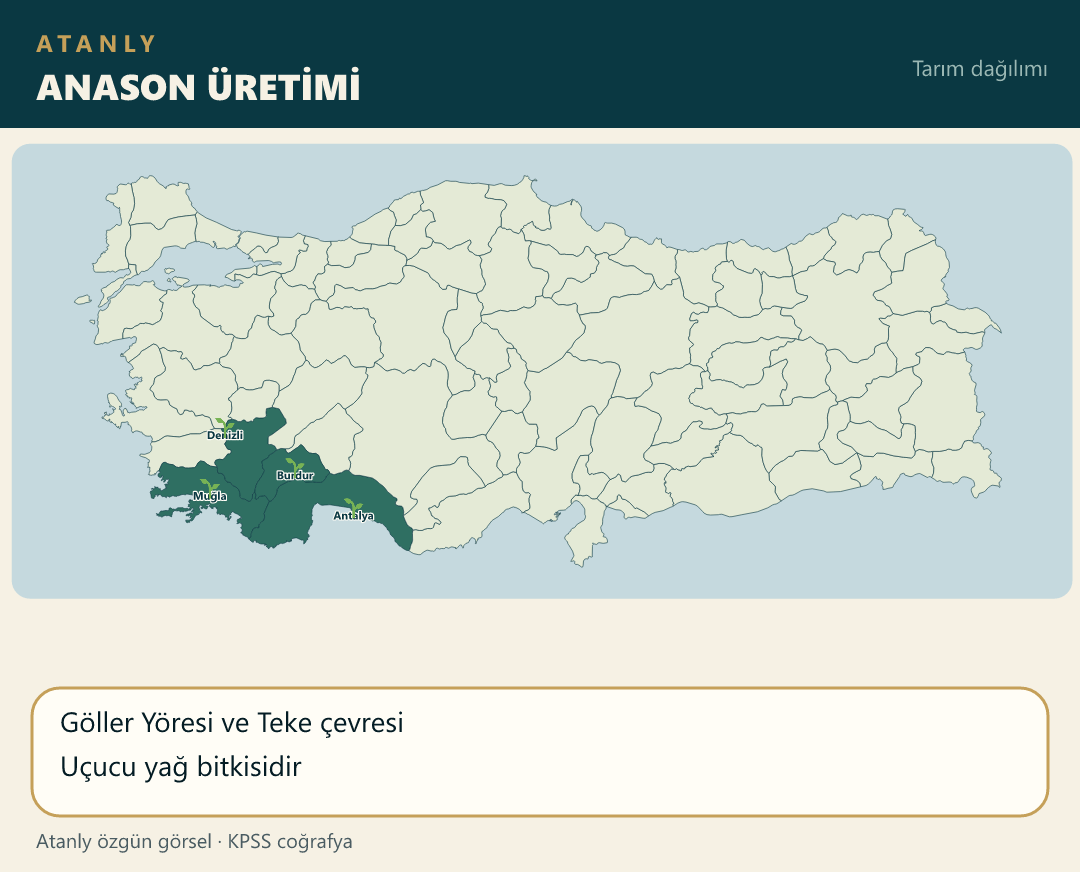
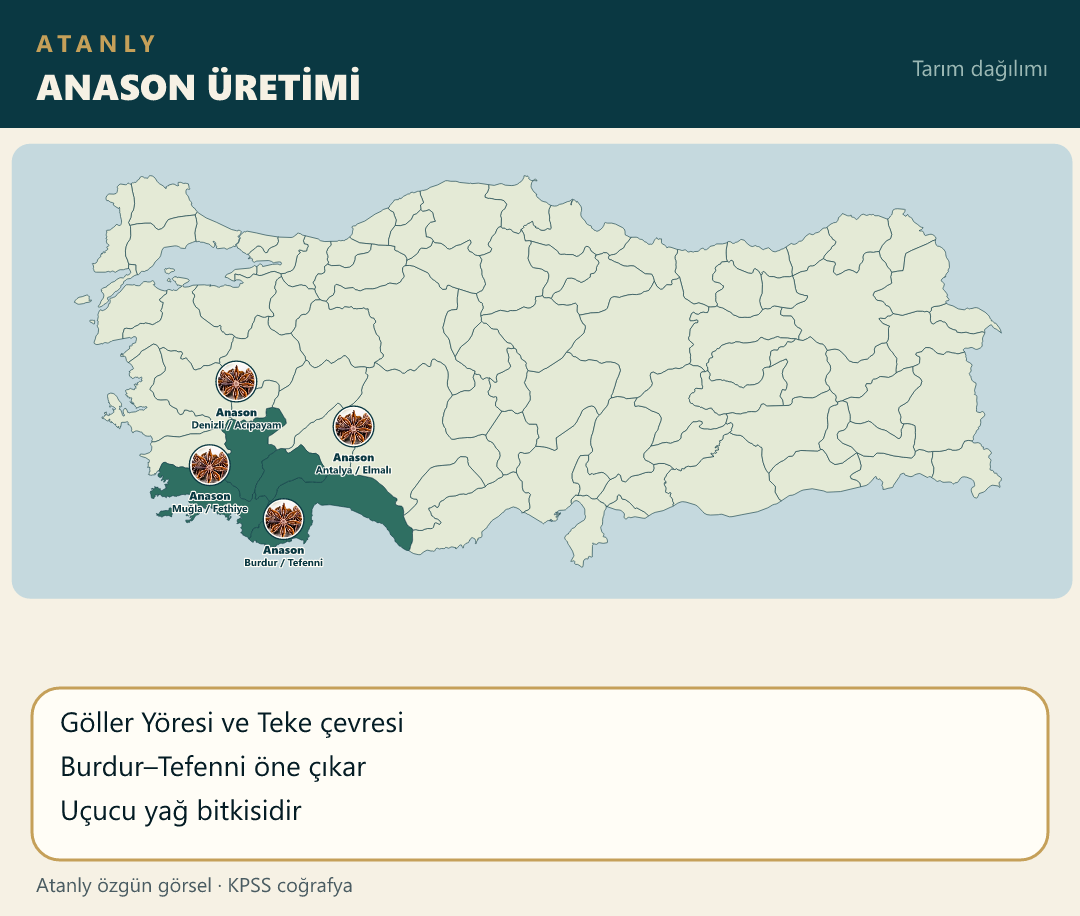
Place the anason photo on Burdur Tefenni and nearby districts.

diff --git a/scripts/build-atanly-maps.js b/scripts/build-atanly-maps.js
@@ -222,12 +222,25 @@ function textW(p, fs) {
     return Math.max(22, max * fs * 0.82);
 }
 
-function onMapText(x, y, text, fs) {
+function onMapText(x, y, text, fs, p) {
     fs = fs || 11;
-    var ln = wrapOnMap(text, 16)[0];
-    var common = 'x="' + Number(x).toFixed(1) + '" y="' + Number(y).toFixed(1) + '" text-anchor="middle" font-family="Segoe UI, Calibri, sans-serif" font-size="' + fs + '" font-weight="700"';
-    return '<text ' + common + ' fill="#FFFDF6" stroke="#FFFDF6" stroke-width="2.2" stroke-linejoin="round">' + esc(ln) + "</text>" +
-        '<text ' + common + ' fill="' + C.navy + '">' + esc(ln) + "</text>";
+    var lines;
+    if (p && p.urun) {
+        lines = [p.urun];
+        if (p.il && p.ilce) lines.push(p.il + " / " + p.ilce);
+        else if (p.il) lines.push(p.il);
+    } else {
+        lines = [wrapOnMap(text, 16)[0]];
+    }
+    var startY = y;
+    return lines.map(function (ln, i) {
+        var size = i === 0 && p && p.urun ? fs : Math.max(8, fs - 1);
+        var ty = startY + i * (size + 2);
+        var wt = i === 0 ? "800" : "700";
+        var common = 'x="' + Number(x).toFixed(1) + '" y="' + Number(ty).toFixed(1) + '" text-anchor="middle" font-family="Segoe UI, Calibri, sans-serif" font-size="' + size + '" font-weight="' + wt + '"';
+        return '<text ' + common + ' fill="#FFFDF6" stroke="#FFFDF6" stroke-width="2.2" stroke-linejoin="round">' + esc(ln) + "</text>" +
+            '<text ' + common + ' fill="' + C.navy + '">' + esc(ln) + "</text>";
+    }).join("");
 }
 
 function nudgeLabels(pts, fs) {
@@ -239,7 +252,7 @@ function nudgeLabels(pts, fs) {
                 var dx = pts[j].x - pts[i].x;
                 var dy = pts[j].y - pts[i].y;
                 var gapX = (textW(pts[i], fs) + textW(pts[j], fs)) / 2 + 10;
-                var gapY = fs * 2.4 + 12;
+                var gapY = (pts[i].urun || pts[j].urun) ? fs * 4.6 + 28 : fs * 2.4 + 12;
                 var ox = gapX - Math.abs(dx);
                 var oy = gapY - Math.abs(dy);
                 if (ox > 0 && oy > 0) {
@@ -265,7 +278,7 @@ function nudgeLabels(pts, fs) {
 function labelsOnMap(pts, fs) {
     fs = fs || labelFs(pts.length);
     nudgeLabels(pts, fs);
-    return pts.map(function (p) { return onMapText(p.x, p.y, p.text, fs); }).join("");
+    return pts.map(function (p) { return onMapText(p.x, p.y, p.text, fs, p); }).join("");
 }
 
 function spreadSameCell(pts) {
@@ -292,7 +305,7 @@ function topicIcon(file) {
     var T = {
         gul: "rose", elma: "apple", bugday: "wheat", pamuk: "cotton", zeytin: "olive",
         uzum: "grapes", misir: "corn", patates: "potato", arpa: "wheat", sekerpancar: "beet",
-        hashas: "poppy", incir: "fig", kayisi: "apricot", muz: "banana", anason: "seed",
+        hashas: "poppy", incir: "fig", kayisi: "apricot", muz: "banana", anason: "anason",
         aspir: "flower", susam: "seed", tutun: "leaf", yerfistik: "peanut", antepfistik: "pistachio",
         kirmizimercimek: "lentil", turunc: "citrus", kanola: "canola", pirinc: "rice",
         aycicek: "sunflower", findik: "hazelnut", cay: "tea", kenevir: "hemp",
@@ -320,26 +333,50 @@ function iconDataUri(name) {
     return uri;
 }
 
-function iconsOnMap(pts, iconName, fs) {
+function iconsOnMap(pts, iconName) {
     var href = iconDataUri(iconName);
     if (!href || !pts.length) return "";
-    var size = iconPx(pts.length);
-    return pts.map(function (p) {
-        var x = (p.x - size / 2).toFixed(1);
-        var y = (p.y - size - 1).toFixed(1);
-        return '<image href="' + href + '" x="' + x + '" y="' + y + '" width="' + size + '" height="' + size + '" preserveAspectRatio="xMidYMid meet"/>';
+    var photo = pts.some(function (p) { return p.urun; });
+    if (!photo) {
+        var size0 = iconPx(pts.length);
+        return pts.map(function (p) {
+            var x = (p.x - size0 / 2).toFixed(1);
+            var y = (p.y - size0 - 1).toFixed(1);
+            return '<image href="' + href + '" x="' + x + '" y="' + y + '" width="' + size0 + '" height="' + size0 + '" preserveAspectRatio="xMidYMid meet"/>';
+        }).join("");
+    }
+    var size = pts.length > 6 ? 28 : 36;
+    return pts.map(function (p, i) {
+        var cid = "ic" + i + Math.round(p.x) + Math.round(p.y);
+        var r = size / 2;
+        var cx = p.x;
+        var cy = p.y - r - 16;
+        return '<defs><clipPath id="' + cid + '"><circle cx="' + cx.toFixed(1) + '" cy="' + cy.toFixed(1) + '" r="' + r + '"/></clipPath></defs>' +
+            '<circle cx="' + cx.toFixed(1) + '" cy="' + cy.toFixed(1) + '" r="' + (r + 2).toFixed(1) + '" fill="#FFFDF6" stroke="' + C.navy + '" stroke-width="1.3"/>' +
+            '<image href="' + href + '" x="' + (cx - r).toFixed(1) + '" y="' + (cy - r).toFixed(1) + '" width="' + size + '" height="' + size + '" clip-path="url(#' + cid + ')" preserveAspectRatio="xMidYMid slice"/>';
     }).join("");
 }
 
 function cropMap(provs, opts) {
     var pts = [];
-    (opts.iller || []).forEach(function (name, i) {
-        var fp = findProv(provs, name);
+    var rows = opts.noktalar || (opts.iller || []).map(function (name, i) {
+        return { il: name, ilce: (opts.ilceler && opts.ilceler[i]) || "", yazi: opts.yazilar && opts.yazilar[i] };
+    });
+    var hi = [];
+    rows.forEach(function (row) {
+        var fp = findProv(provs, row.il);
         if (!fp) {
-            console.warn("il yok:", name);
+            console.warn("il yok:", row.il);
             return;
         }
-        pts.push({ x: fp.cx, y: fp.cy, ox: fp.cx, oy: fp.cy, text: (opts.yazilar && opts.yazilar[i]) || name });
+        hi.push(row.il);
+        pts.push({
+            x: fp.cx, y: fp.cy, ox: fp.cx, oy: fp.cy,
+            text: row.yazi || row.il,
+            urun: opts.urun || "",
+            il: row.il,
+            ilce: row.ilce || ""
+        });
     });
     spreadSameCell(pts);
     var factsY = 78 + MAP_BLOCK_H + 16;
@@ -347,7 +384,7 @@ function cropMap(provs, opts) {
     var H = factsY + facts.h + 28;
     var labels = labelsOnMap(pts);
     var overlay = iconsOnMap(pts, topicIcon(opts.file));
-    var body = mapBlock(provs, landPaths(provs, opts.iller, C.landHi) + labels + overlay) + facts.svg;
+    var body = mapBlock(provs, landPaths(provs, hi, C.landHi) + labels + overlay) + facts.svg;
     return frame(H, opts.title, opts.kicker || "Tarım dağılımı", body);
 }
 
@@ -374,7 +411,14 @@ function main() {
         { file: "incir.png", title: "İNCİR ÜRETİMİ", iller: ["Aydın", "İzmir", "Muğla", "Bursa", "Gaziantep"], facts: ["Aydın birinci sıradadır", "Ege’nin kurutmalık inciri meşhurdur"] },
         { file: "kayısı.png", title: "KAYISI ÜRETİMİ", iller: ["Malatya", "Elazığ", "Kahramanmaraş", "Iğdır"], facts: ["Malatya dünya ölçeğinde öne çıkar", "Kurutmalık kayısı ihracatı önemlidir"] },
         { file: "muz.png", title: "MUZ ÜRETİMİ", iller: ["Mersin", "Antalya", "Hatay"], facts: ["Don olayının az olduğu kıyı kuşağı", "Anamur–Alanya çevresi yoğundur"] },
-        { file: "anason.png", title: "ANASON ÜRETİMİ", iller: ["Burdur", "Denizli", "Antalya", "Muğla"], facts: ["Göller Yöresi ve Teke çevresi", "Uçucu yağ bitkisidir"] },
+        { file: "anason.png", title: "ANASON ÜRETİMİ", urun: "Anason",
+            noktalar: [
+                { il: "Burdur", ilce: "Tefenni" },
+                { il: "Denizli", ilce: "Acıpayam" },
+                { il: "Antalya", ilce: "Elmalı" },
+                { il: "Muğla", ilce: "Fethiye" }
+            ],
+            facts: ["Göller Yöresi ve Teke çevresi", "Burdur–Tefenni öne çıkar", "Uçucu yağ bitkisidir"] },
         { file: "aspir.png", title: "ASPİR ÜRETİMİ", iller: ["Eskişehir", "Konya", "Ankara", "Aksaray"], facts: ["Kuraklığa dayanıklı yağ bitkisi", "İç Anadolu’da ekimi artmaktadır"] },
         { file: "susam.png", title: "SUSAM ÜRETİMİ", iller: ["Antalya", "Muğla", "Manisa", "Adana"], facts: ["Sıcak iklim ister", "Akdeniz ve Ege kıyılarında yetişir"] },
         { file: "tütün.png", title: "TÜTÜN ÜRETİMİ", iller: ["Manisa", "Denizli", "Samsun", "Adıyaman", "Bitlis", "Muş"], facts: ["Ege ve Karadeniz’de klasik üretim alanları", "Doğu Anadolu’da da ekilir"] },

diff --git a/notlar/cografya-19-not.js b/notlar/cografya-19-not.js
@@ -2,7 +2,7 @@
 (function () {
     function harita(src, alt) {
         return '<div class="mt-4 overflow-hidden rounded-xl border border-blue-200 dark:border-blue-700/50 bg-white dark:bg-slate-800 p-2">' +
-            '<img src="./src/img/' + src + '?v=9" alt="' + alt + ' Haritası" class="w-full h-auto rounded-lg object-contain" loading="lazy">' +
+            '<img src="./src/img/' + src + '?v=10" alt="' + alt + ' Haritası" class="w-full h-auto rounded-lg object-contain" loading="lazy">' +
             "</div>";
     }
 

diff --git a/index.html b/index.html
@@ -117,7 +117,7 @@
     <script src="notlar/cografya-16-not.js?v=3"></script>
     <script src="notlar/cografya-17-not.js?v=3"></script>
     <script src="notlar/cografya-18-not.js?v=9"></script>
-    <script src="notlar/cografya-19-not.js?v=5"></script>
+    <script src="notlar/cografya-19-not.js?v=6"></script>
     <script src="notlar/cografya-20-not.js?v=1"></script>
     <script src="notlar/cografya-21-not.js?v=4"></script>
     <script src="notlar/vatandas-1-not.js?v=3"></script>
